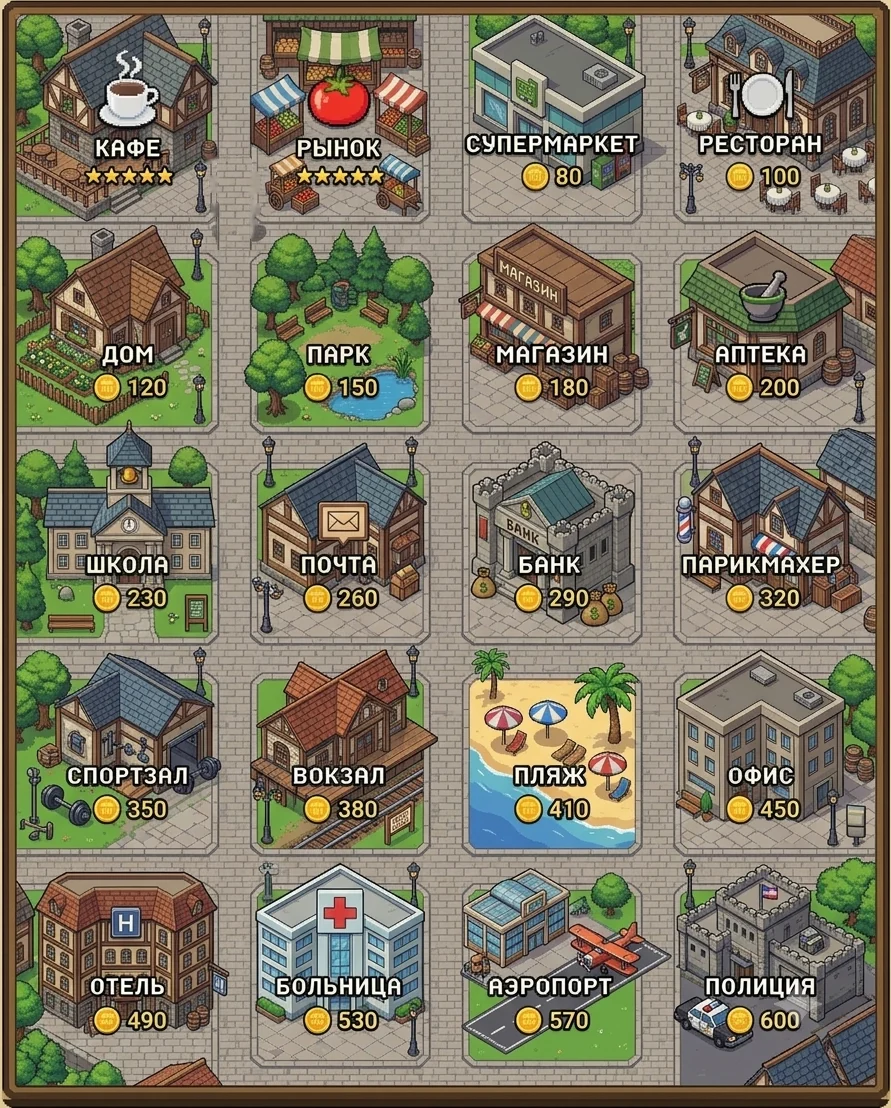
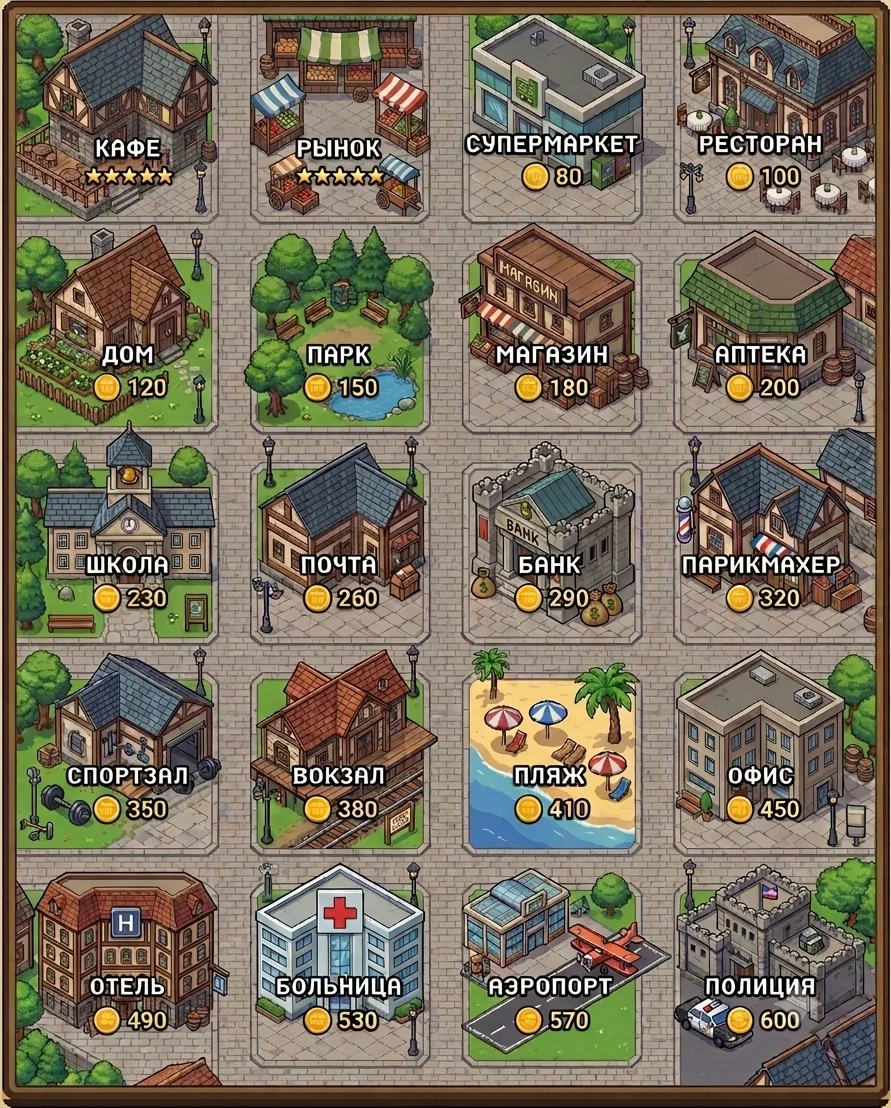
Доработанная картинка города (1.9.1)
Claude-Session: https://claude.ai/code/session_012FoTdB5qAwJN693kz9isgV

diff --git a/src/content/changelog.ts b/src/content/changelog.ts
@@ -7,6 +7,11 @@ export interface Release {
 // Новые версии сверху. Версия первой записи должна совпадать с package.json (проверяется тестом).
 export const CHANGELOG: Release[] = [
   {
+    version: '1.9.1',
+    date: '2026-09-25',
+    notes: ['Обновлённая картинка города: здания без крупных значков, чище улицы.'],
+  },
+  {
     version: '1.9.0',
     date: '2026-09-25',
     notes: [

diff --git a/docs/STAGES.md b/docs/STAGES.md
@@ -251,3 +251,7 @@
 - Удалены стили старой карты (трава, дороги, участки).
 
 Проверено в браузере: карта на ширине 390 px, таблички с разными уровнями и ценой, прогулка кафе → полиция по дорогам, «уменьшить движение», нажатие во время прогулки. Прошли сценарии: город со сбором дохода и открытием рынка, урок с заданиями на слух, повторение, офлайн, блиц, «Продолжить».
+
+## Версия 1.9.1. Доработанная картинка города
+
+Картинка карты заменена на доработанный вариант от пользователя: без значков над зданиями и без нарисованного героя, поэтому стирать ничего не пришлось. Сетка улиц совпала со старой (проверено по цвету дорог: столбцы и ряды на тех же пикселях), так что геометрия, таблички и маршруты героя не менялись. Проверено в браузере: таблички закрывают нарисованные звёзды и цены, герой идёт от кафе до полиции по улицам, сценарий города проходит.
